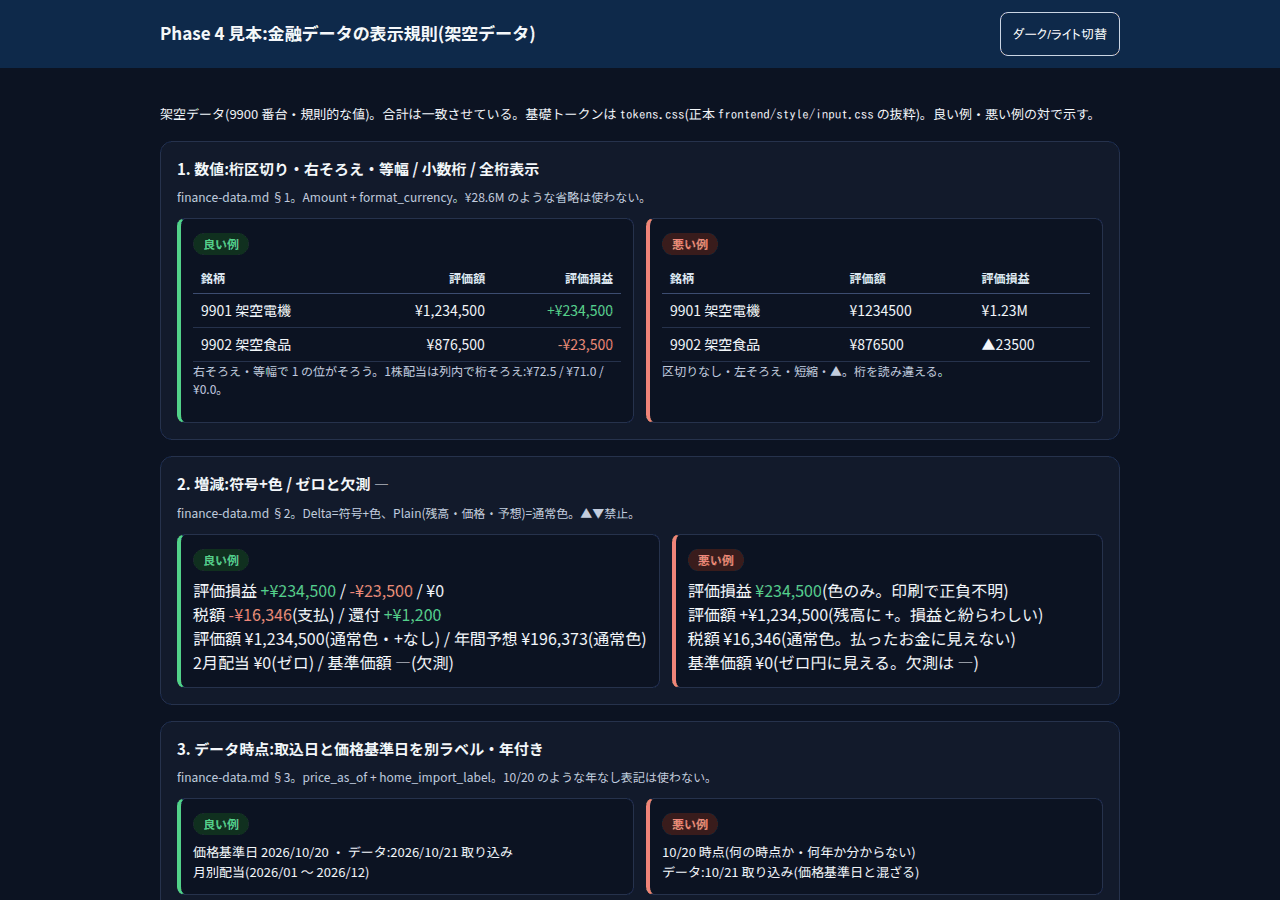
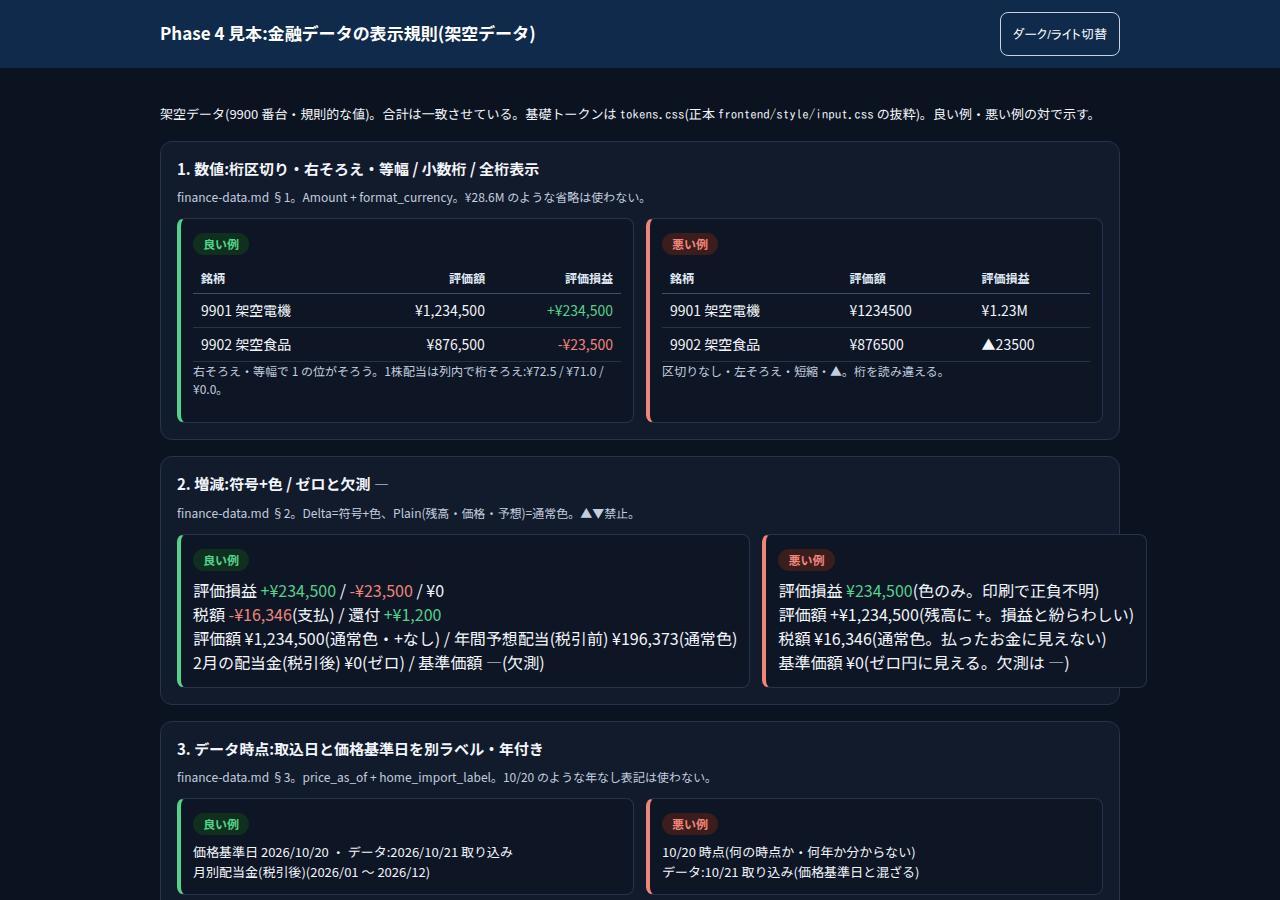
docs(phase4): 月別配当の凡例・見出しを配当金(税引後)に統一
PR #1899 のレビュー指摘(月別配当の凡例『配当金の受取額』と税引後サンプル系列の不一致)に対応。
labels.rs・ui-design.md の言い分け(配当金(税引前)/税額/配当金(税引後))に合わせ、finance-data.md と finance.html の見出し・凡例・読み上げ名を点検して統一した。見本 PNG を再取得。

Changed region(s): [[0.1562, 0.5911, 0.875, 0.7467], [0.1875, 0.9644, 0.3438, 0.9956]]

diff --git a/docs/design/work/phase4-opencode/finance.html b/docs/design/work/phase4-opencode/finance.html
@@ -83,8 +83,8 @@
       <div class="good"><span class="tag">良い例</span>
         <div class="num">評価損益 <span class="pos">+¥234,500</span> / <span class="neg">-¥23,500</span> / ¥0</div>
         <div class="num">税額 <span class="neg">-¥16,346</span>(支払) / 還付 <span class="pos">+¥1,200</span></div>
-        <div class="num">評価額 ¥1,234,500(通常色・+なし) / 年間予想 ¥196,373(通常色)</div>
-        <div class="num">2月配当 ¥0(ゼロ) / 基準価額 —(欠測)</div>
+        <div class="num">評価額 ¥1,234,500(通常色・+なし) / 年間予想配当(税引前) ¥196,373(通常色)</div>
+        <div class="num">2月の配当金(税引後) ¥0(ゼロ) / 基準価額 —(欠測)</div>
       </div>
       <div class="bad"><span class="tag">悪い例</span>
         <div class="num">評価損益 <span class="pos">¥234,500</span>(色のみ。印刷で正負不明)</div>
@@ -100,7 +100,7 @@
     <div class="pair">
       <div class="good"><span class="tag">良い例</span>
         <div class="num" style="font-size:13px">価格基準日 2026/10/20 ・ データ:2026/10/21 取り込み</div>
-        <div class="num" style="font-size:13px">月別配当(2026/01 〜 2026/12)</div>
+        <div class="num" style="font-size:13px">月別配当金(税引後)(2026/01 〜 2026/12)</div>
       </div>
       <div class="bad"><span class="tag">悪い例</span>
         <div class="num" style="font-size:13px">10/20 時点(何の時点か・何年か分からない)</div>
@@ -124,12 +124,12 @@
     <p class="note">finance-data.md §5。曲線禁止。凡例は色+名前+金額+割合。前年は比較色。</p>
     <div class="pair">
       <div class="good"><span class="tag">良い例(棒+凡例)</span>
-        <div class="num" style="font-size:12px">月別配当(2026/01 〜 2026/12)・合計 ¥300,000(単一の系列)</div>
-        <div class="bars" role="img" aria-label="月別配当の棒グラフ">
+        <div class="num" style="font-size:12px">月別配当金(税引後)(2026/01 〜 2026/12)・合計 ¥300,000(単一の系列)</div>
+        <div class="bars" role="img" aria-label="月別の税引後配当の棒グラフ">
           <div class="b" style="height:20%"></div><div class="b zero" style="height:2%"></div><div class="b" style="height:74%"></div><div class="b" style="height:13%"></div><div class="b" style="height:25%"></div><div class="b" style="height:36%"></div><div class="b" style="height:30%"></div><div class="b" style="height:15%"></div><div class="b" style="height:62%"></div><div class="b" style="height:20%"></div><div class="b" style="height:98%"></div><div class="b" style="height:100%"></div>
         </div>
         <div class="months"><span>1</span><span>2</span><span>3</span><span>4</span><span>5</span><span>6</span><span>7</span><span>8</span><span>9</span><span>10</span><span>11</span><span>12</span></div>
-        <div class="legend"><span class="sw" style="background:var(--color-chart-3)"></span>月別配当(配当金の受取額) 合計 ¥300,000</div>
+        <div class="legend"><span class="sw" style="background:var(--color-chart-3)"></span>配当金(税引後) 合計 ¥300,000</div>
         <p class="note">単一の系列のため棒は1色(`chart-3`)。資産構成の系列色(`chart-1`/`chart-2`)は使わない。</p>
         <div class="num" style="font-size:12px;margin-top:12px">資産構成(評価額基準)・合計 ¥3,345,000</div>
         <div class="donut-row">
@@ -139,7 +139,7 @@
         <p class="note">構成は円グラフ+凡例(金額と割合)。円の色・順序と凡例を一致させる。</p>
       </div>
       <div class="bad"><span class="tag">悪い例</span>
-        <div class="num" style="font-size:12px">月別配当(期間なし・合計なし)</div>
+        <div class="num" style="font-size:12px">月別配当金(税引後)(期間なし・合計なし)</div>
         <div class="num" style="font-size:13px">12か月を滑らかな曲線で結ぶ(月と月の間に値があるように誤読)</div>
         <div class="legend"><span class="sw" style="background:var(--color-chart-1)"></span>国内株式 63%　<span class="sw" style="background:var(--color-chart-2)"></span>架空グロー…(金額なし・省略で識別不能)</div>
       </div>

diff --git a/docs/design/work/phase4-opencode/finance-data.md b/docs/design/work/phase4-opencode/finance-data.md
@@ -8,7 +8,7 @@
   - 9902 架空食品(一般、200株): 評価額 ¥876,500、取得総額 ¥900,000、評価損益 -¥23,500(-2.61%)
   - 9903 架空成長ファンド(1,000,000口): 評価額 ¥1,234,000、取得総額 ¥1,100,000、評価損益 +¥134,000(+12.18%)
   - 合計: 評価額 ¥3,345,000、取得総額 ¥3,000,000、評価損益 +¥345,000(+11.50%)
-  - 2026年 税引後配当(月別、12か月合計 ¥300,000): 1月 ¥12,000、2月 ¥0、3月 ¥45,000、4月 ¥8,000、5月 ¥15,000、6月 ¥22,000、7月 ¥18,000、8月 ¥9,000、9月 ¥38,000、10月 ¥12,000、11月 ¥60,000、12月 ¥61,000
+  - 2026年 配当金(税引後)(月別、12か月合計 ¥300,000): 1月 ¥12,000、2月 ¥0、3月 ¥45,000、4月 ¥8,000、5月 ¥15,000、6月 ¥22,000、7月 ¥18,000、8月 ¥9,000、9月 ¥38,000、10月 ¥12,000、11月 ¥60,000、12月 ¥61,000
   - 構成(評価額基準): 国内株式 ¥2,111,000(63.1%)、投資信託 ¥1,234,000(36.9%)。合計 ¥3,345,000、割合合計 100.0%
 
 ## 1. 数値の書式
@@ -77,10 +77,10 @@
 
 ## 2. 増減の表現(符号・色・矢印や文字)
 
-- 決まり: お金の出入り・損益・税の 3 つ(税引前・税額・税引後)は符号(+/−)と色の両方で出す。残高・価格・元額(評価額・現在値・取得総額)は通常色・符号なし。予想額(年間予想配当など)は通常色・符号なし。▲▼は使わない。色だけに頼らず、符号か文字を必ず添える。`AmountKind::Delta` か `Plain` かは `Amount` で表し、画面ごとに色を書かない(`mobile-ui-rules.md:53,91`、`frontend/src/ui/amount.rs:3-10`)。
-  - 損益・受取額(評価損益・前日比・配当金・税引後): 正は `+`+緑(`positive` 系)、負は `−`(`-`、U+2212 ではなく半角 `-`。`shared/src/format.rs:193-203` の符号規則)+赤(`negative` 系)、0 は符号・色なし(通常色で `¥0` / `0.00%`)。
-  - 税額: 出ていくお金として `-¥` +赤(正の税)。還付(負の税)は `+¥` +緑。0 は `¥0` 通常色。
-  - 配当タブの税引後は受取額であり損益ではないため、負数でも赤にしない(現行仕様。`frontend/README.md:185`)。本書の配当例はすべて正のため影響なし。
+- 決まり: お金の出入り・損益・税の 3 つ(配当金(税引前)・実現損益(税引前)・税額・配当金(税引後)・実現損益(税引後))は符号(+/−)と色の両方で出す。残高・価格・元額(評価額・現在値・取得総額)は通常色・符号なし。予想額(年間予想配当(税引前)など)は通常色・符号なし。▲▼は使わない。色だけに頼らず、符号か文字を必ず添える。`AmountKind::Delta` か `Plain` かは `Amount` で表し、画面ごとに色を書かない(`mobile-ui-rules.md:53,91`、`frontend/src/ui/amount.rs:3-10`)。
+  - 損益・受取額(評価損益・前日比・配当金(税引前)・配当金(税引後)): 正は `+`+緑(`positive` 系)、負は `−`(`-`、U+2212 ではなく半角 `-`。`shared/src/format.rs:193-203` の符号規則)+赤(`negative` 系)、0 は符号・色なし(通常色で `¥0` / `0.00%`)。
+  - 税額(`labels::TAX`、`labels.rs:62`): 出ていくお金として `-¥` +赤(正の税)。還付(負の税)は `+¥` +緑。0 は `¥0` 通常色。
+  - 配当タブの配当金(税引後)(`labels::RECEIVED_DIVIDEND_AFTER_TAX`「受け取った配当金(税引後)」、`labels.rs:465`。ホームは `labels::HOME_THIS_YEAR_DIVIDEND`「今年の配当金(税引後)」、`labels.rs:831`。月別グラフの読み上げは `labels::home_monthly_aria`「月別の税引後配当」、`labels.rs:899-902`)は受取額であり損益ではないため、負数でも赤にしない(現行仕様。`frontend/README.md:185`)。本書の配当例はすべて正のため影響なし。帯の内訳の税引前表示は `labels::DIVIDEND_BEFORE_TAX`「配当金(税引前)」(`labels.rs:42`)・`labels::REALIZED_BEFORE_TAX`「実現損益(税引前)」(`labels.rs:68`)を使う。
   - 紺帯(`SummaryBand`)の中も同じ決まり。色は明色に寄せる(`--color-profit-bright`・`--color-loss-bright`、`input.css:28-29,184-190`)。
 - 対応: 既存 `Amount`(`AmountKind::Delta`/`Plain`)。新設なし。マルチバイトの矢印・▲▼の新設はしない。
 
@@ -91,7 +91,7 @@
 税額      -¥16,346 (赤。正の税は出ていくお金)
 還付      +¥1,200 (緑。還付の負の税)
 評価額    ¥1,234,500 (通常色。プラスでも + を付けない)
-年間予想  ¥196,373 (通常色・符号なし。実績ではない)
+年間予想配当(税引前)  ¥196,373 (通常色・符号なし。実績ではない)
 ```
 
 悪い例:
@@ -110,22 +110,22 @@
 - 決まり: 0 は `¥0`・`0株`・`0.00%`(事実としてのゼロ)。欠測(値が無い・まだ無い)は `—`(`labels::MISSING`、`labels.rs:170`)。0 と — を混ぜない。理由の説明は 1〜2 行に揃える(`ux-audit-opencode.md:153` X-3)。
 - 対応: 既存 `MISSING`。新設なし。
 
-良い例: `2月配当 ¥0`(無配月はゼロと分かる)、`基準価額 —`(未取込は欠測と分かる)
-悪い例: `2月配当 —`(ゼロか未取込か分からない)、`基準価額 ¥0`(ゼロ円の基準価額に見える)
+良い例: `2月の配当金(税引後) ¥0`(無配月はゼロと分かる)、`基準価額 —`(未取込は欠測と分かる)
+悪い例: `2月の配当金(税引後) —`(ゼロか未取込か分からない)、`基準価額 ¥0`(ゼロ円の基準価額に見える)
 
 ## 3. データ時点(取込日・価格基準日)
 
 - 決まり: `取込日` と `価格基準日` は別ラベルで出し、どちらも年を含む(採用方針 `design-decision-p3.md:22`)。`10/20` のような年なし表記は使わない。注記行に集約し、計算基準への入口(`SkeletonNote`)と一緒に置く(`mobile-ui-rules.md:43-46`)。
   - 取込日: `format_latest_import_date`(`format.rs:285-290`)の `Y/M/D`。表示は `home_import_label`(`labels.rs:885-887`)の「データ: 2026/10/20 取り込み」の型。
   - 価格基準日: `format_iso_date`(`format.rs:188-194`)の `YYYY/MM/DD`。表示は `price_as_of`(`labels.rs:326-328`)の「価格基準日 2026/10/20」の型。行内の短縮(`M/D`)は `format_short_date`・`format_price_date` に限る。
-  - チャート見出しには対象期間を添える(例: ホーム月別 `2026/01 〜 2026/12`。`labels::receipt_period_short`、`labels.rs:551-553`)。帯の基準日とチャートの期間の関係が読めるようにする(課題 HO-4)。
+  - チャート見出しには対象期間と税区分を添える(例: ホーム月別 `月別配当金(税引後)(2026/01 〜 2026/12)`。`labels::home_monthly_aria`「月別の税引後配当」(`labels.rs:899-902`)、`labels::receipt_period_short`、`labels.rs:551-553`)。帯の基準日とチャートの期間の関係が読めるようにする(課題 HO-4)。
 - 対応: 既存 `labels.rs`・`format.rs`。新設なし。
 
 良い例(注記行):
 
 ```text
 価格基準日 2026/10/20 ・ データ: 2026/10/21 取り込み ・ 計算基準を見る
-月別配当(2026/01 〜 2026/12)
+月別配当金(税引後)(2026/01 〜 2026/12)
 ```
 
 悪い例:
@@ -139,15 +139,15 @@
 
 ## 4. 合計と内訳の一致
 
-- 決まり: 評価額と内訳、配当の年合計と月別合計、件数と一覧は必ず一致させる。合わないモックは不具合として扱う(`design-decision-p3.md:27`)。一覧が抜粋のときは「◯件中△件のみ表示」の注記を付け、合計だと誤認させない(Phase 3 B の対応 `concept-B.md:185`)。
+- 決まり: 評価額と内訳、配当金(税引後)の年合計と月別合計、件数と一覧は必ず一致させる。合わないモックは不具合として扱う(`design-decision-p3.md:27`)。一覧が抜粋のときは「◯件中△件のみ表示」の注記を付け、合計だと誤認させない(Phase 3 B の対応 `concept-B.md:185`)。
 - 対応: 既存の集計表示(`SummaryBand`・グループ小計 `receipts-table-group`・`list-group-header`)。新設なし。
-- 本書の検算: 評価額 ¥1,234,500+¥876,500+¥1,234,000=¥3,345,000=合計。評価損益 +¥234,500−¥23,500+¥134,000=+¥345,000=合計。月別配当合計 ¥300,000(§頭の内訳の和)。構成 63.1%+36.9%=100.0%。
+- 本書の検算: 評価額 ¥1,234,500+¥876,500+¥1,234,000=¥3,345,000=合計。評価損益 +¥234,500−¥23,500+¥134,000=+¥345,000=合計。配当金(税引後)の月別合計 ¥300,000(§頭の内訳の和)。構成 63.1%+36.9%=100.0%。
 
 良い例(グループ小計。`labels::group_count` の「2026年12月 · 3件」型、`labels.rs:321-324`):
 
 ```text
 2026年12月 · 3件の合計   +¥74,000  -¥15,020  +¥58,980
-(税引前・税額・税引後の3方向すべてで帯合計と一致)
+(配当金(税引前)・税額・配当金(税引後)の3項目すべてで帯合計と一致)
 ```
 
 悪い例(Phase 3 B で修正された実例。`concept-B.md:185`):
@@ -164,7 +164,7 @@
 - 決まり: 月次の金額は棒グラフ。滑らかな曲線は使わない(C の欠点。`design-decision-p3.md:21`)。値は 0 の月も棒を省略せず、欠測と区別する(0 は高さ 0 の棒+目盛り、欠測は棒なし+注記)。実装の正本は `home-chart-*`(`input.css:1416-1503`)。
 - 対応: 既存 `home-chart-*` クラス。新設なし。
 
-良い例: 12 本の棒+最大値ラベル+期間見出し「月別配当(2026/01 〜 2026/12)」。2月 ¥0 は高さ 0 の棒で「¥0」と読める。
+良い例: 12 本の棒+最大値ラベル+期間見出し「月別配当金(税引後)(2026/01 〜 2026/12)」+凡例「配当金(税引後) 合計 ¥300,000」。2月の配当金(税引後) ¥0 は高さ 0 の棒で「¥0」と読める。読み上げ名は `labels::home_monthly_aria`「月別の税引後配当」(`labels.rs:899-902`)に寄せる。
 悪い例: 12 か月を滑らかな曲線で結ぶ(月と月の間に値があるように誤読する。C の欠点)。
 
 ### 5.2 構成は円グラフ+凡例に金額と割合
